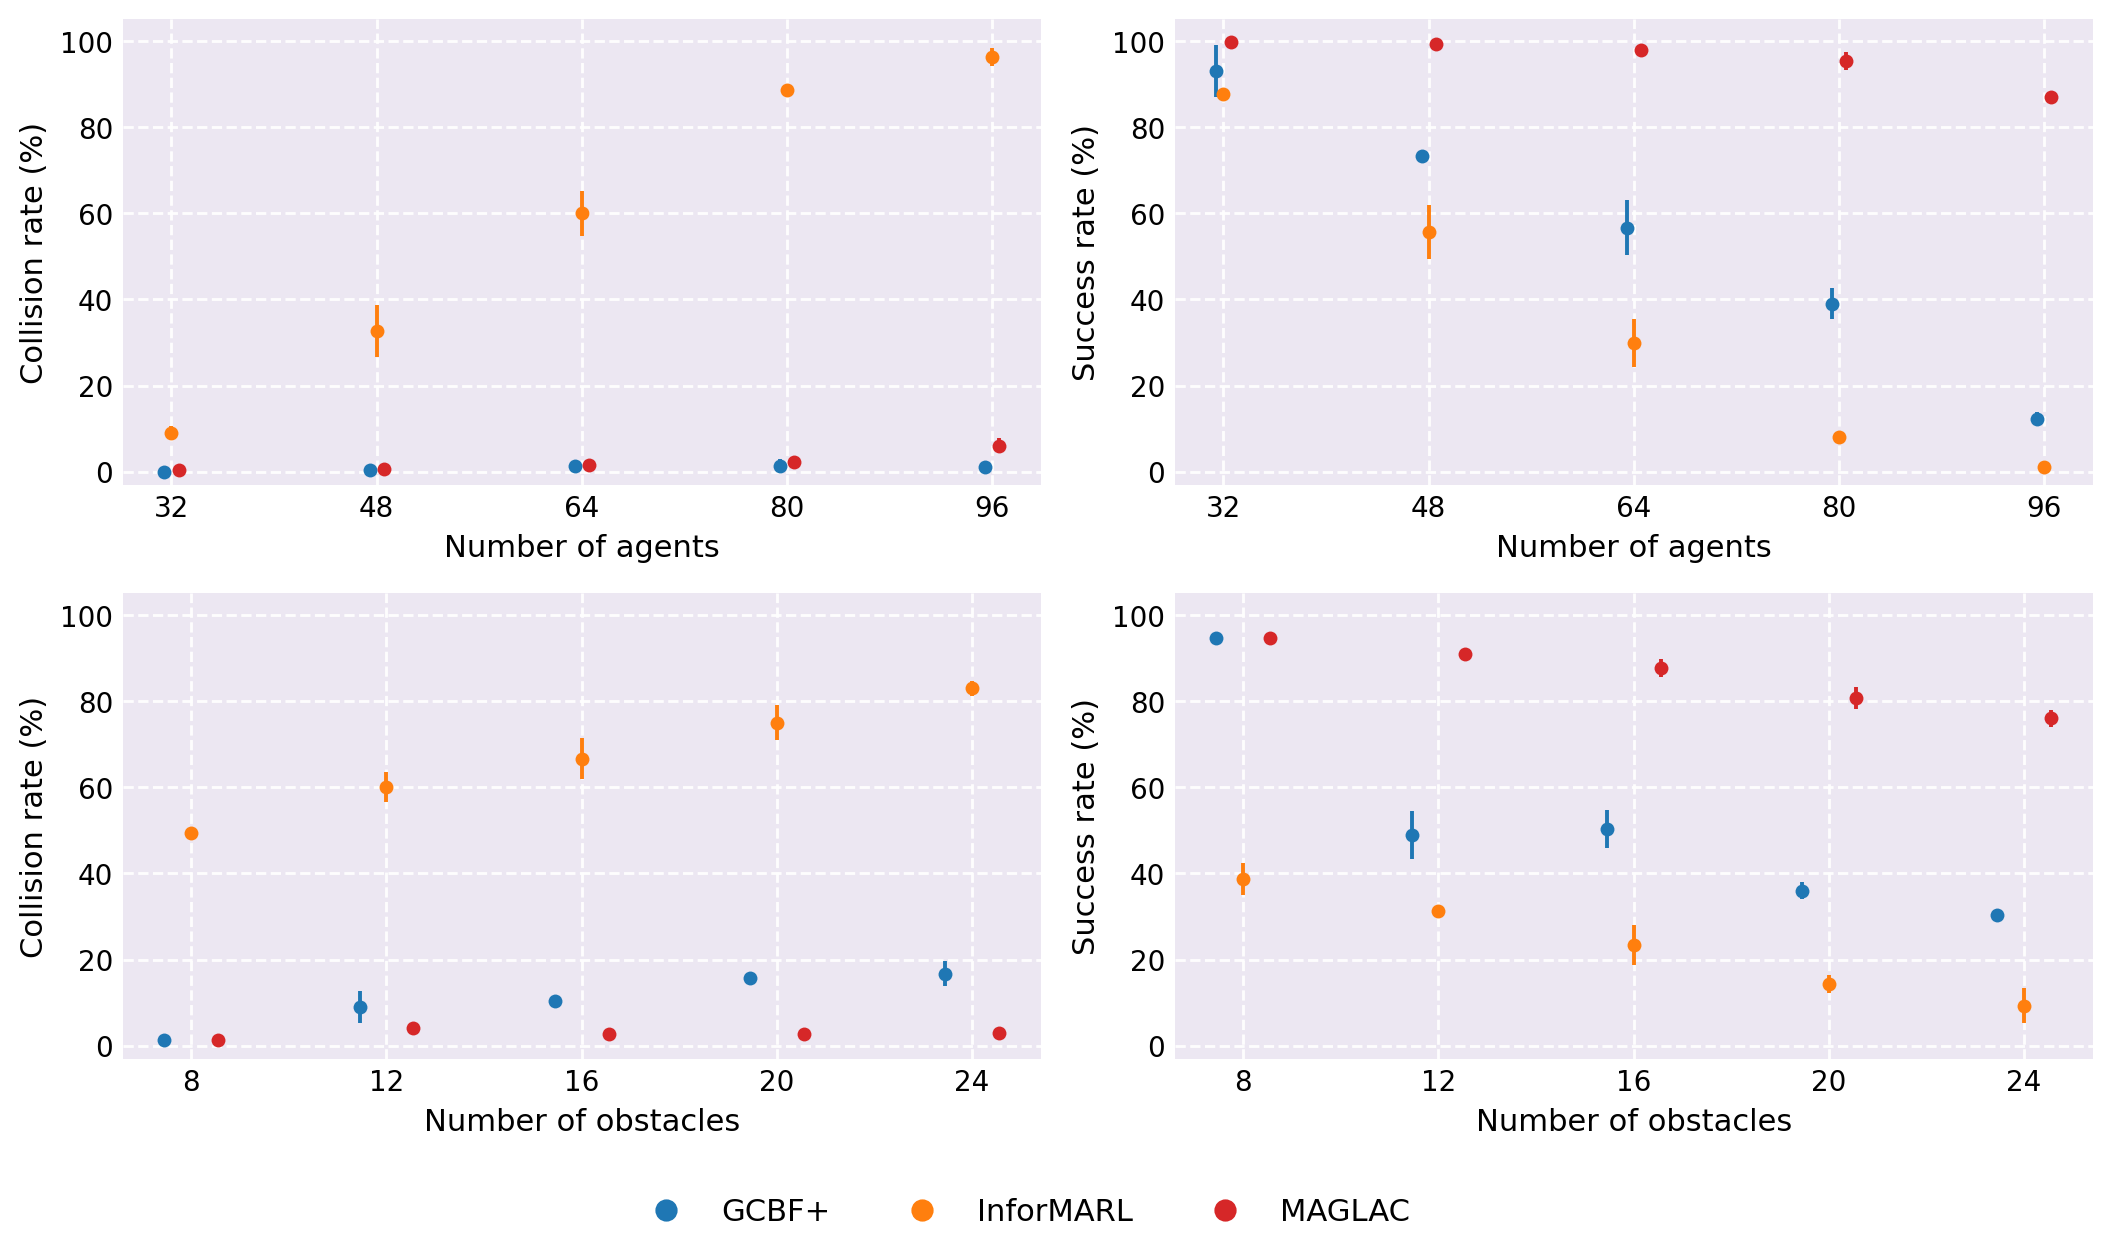
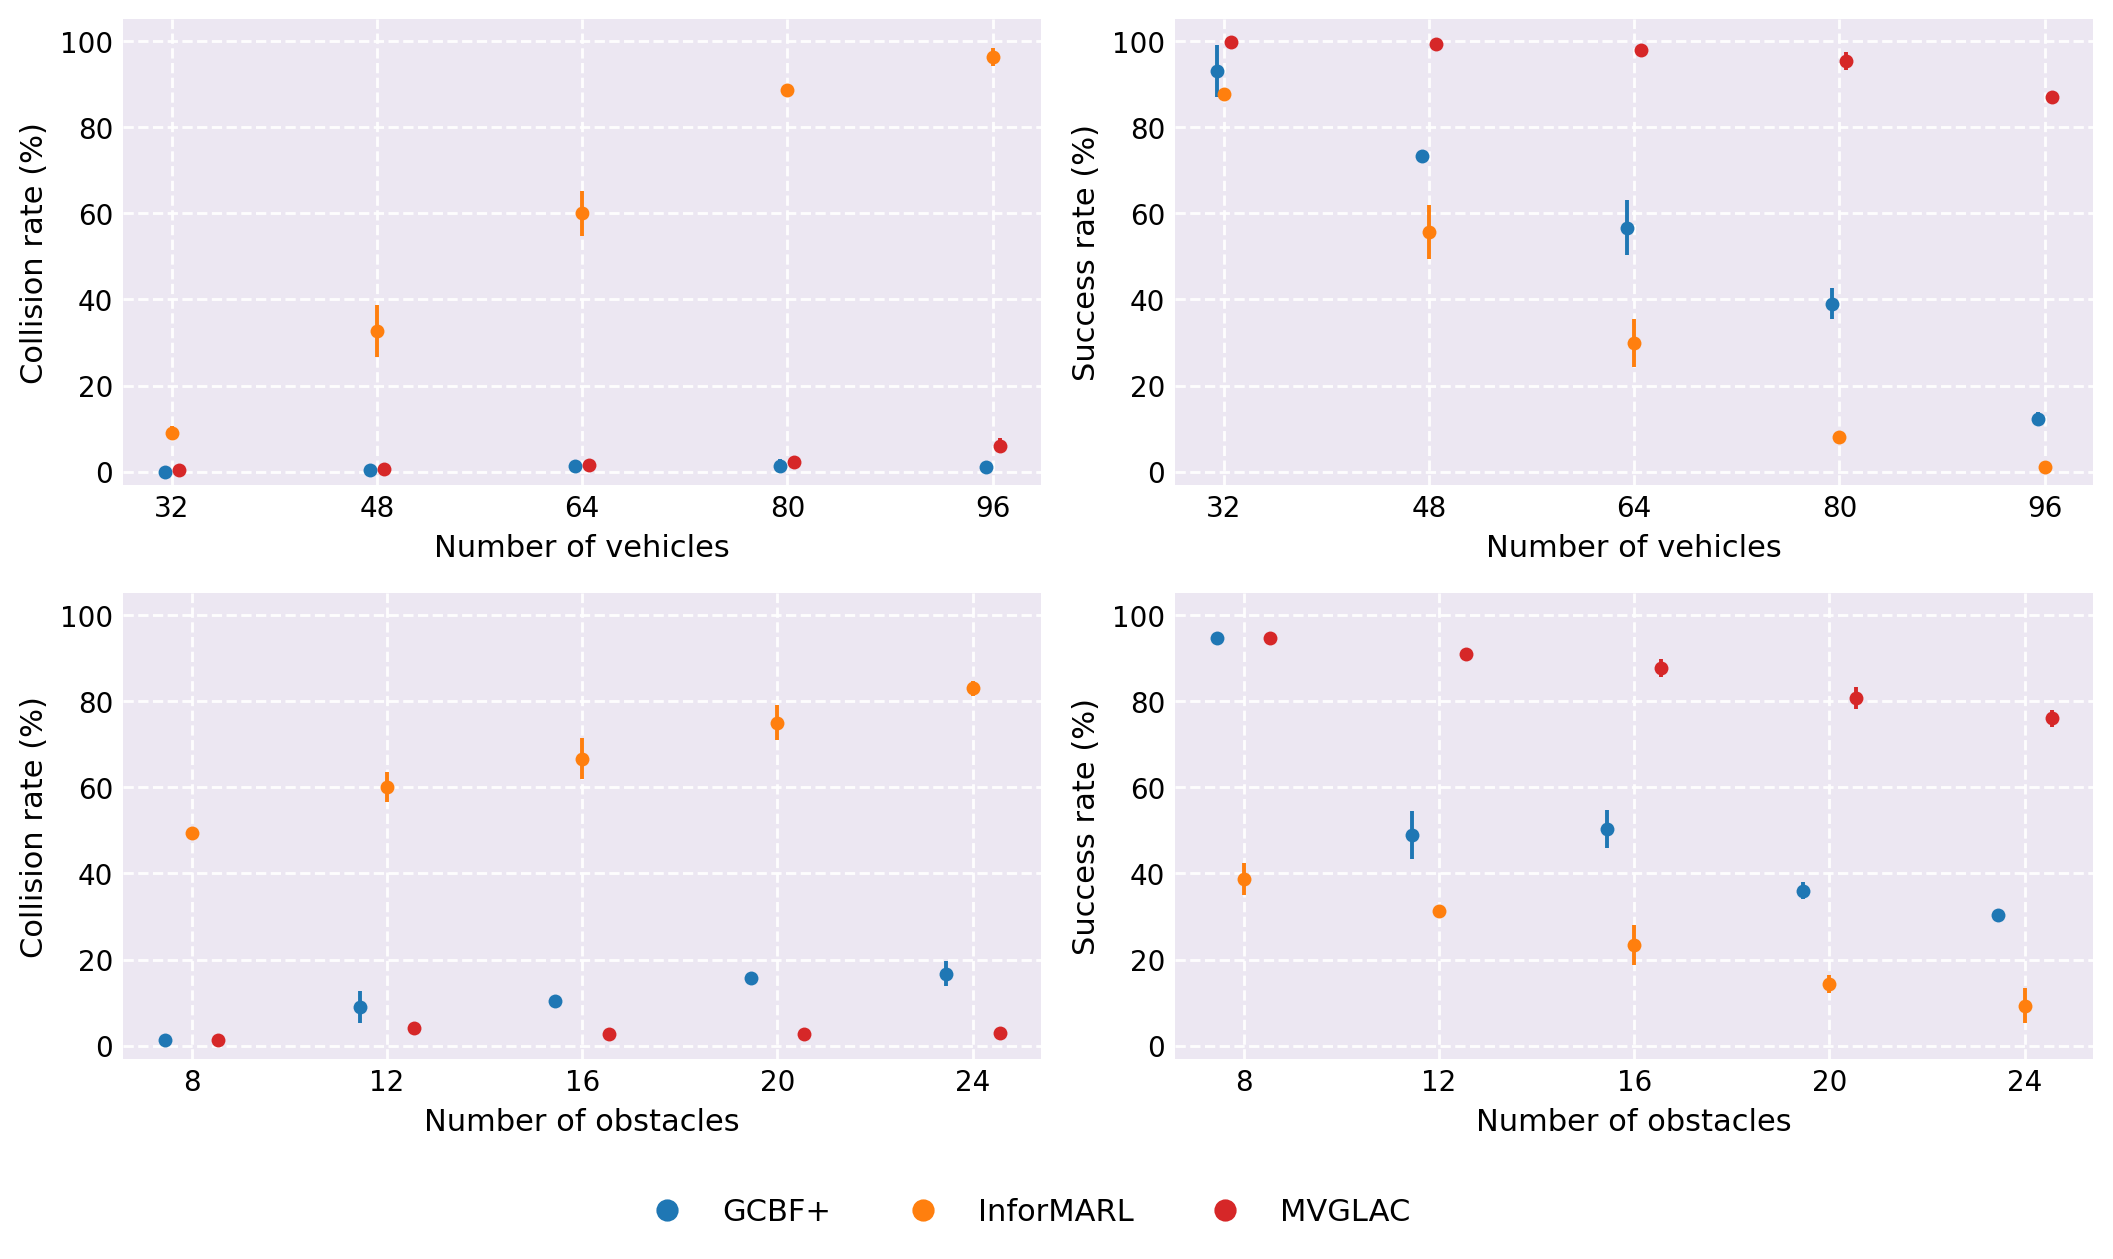
first commit

diff --git a/README.md b/README.md
@@ -1,36 +1,36 @@
-# MAGLAC: Multi-Agent Graph-Based Lyapunov Actor-Critic
+# MVGLAC: Multi-Vehicle Graph-Based Lyapunov Actor-Critic
 
 This repository contains the official implementation of
 
-**"Safe and Scalable Multi-Agent Control with Stability Guarantees via Graph-Based Lyapunov Reinforcement Learning"**
+**"Safe and Scalable Multi-Vehicle Control with Stability Guarantees via Graph-Based Lyapunov Reinforcement Learning"**
 
-MAGLAC learns a **distributed, safe, and scalable control policy** for multi-agent navigation in dense, dynamic, obstacle-cluttered environments. Each agent has only a limited sensing radius, the number of neighbors and detected obstacles changes over time, and safety is enforced as a **hard Lyapunov constraint** rather than a soft reward penalty.
+MVGLAC learns a **distributed, safe, and scalable control policy** for multi-vehicle navigation in dense, dynamic, obstacle-cluttered environments. Each vehicle has only a limited sensing radius, the number of neighbors and detected obstacles changes over time, and safety is enforced as a **hard Lyapunov constraint** rather than a soft reward penalty.
 
 <p align="center">
-  <img src="assets/overview.png" width="780" alt="MAGLAC overview"/>
+  <img src="assets/overview.png" width="780" alt="MVGLAC overview"/>
 </p>
 
-<p align="center"><i>Figure 1. Overview of MAGLAC: graph-based observation encoder, distributed actor, centralized Q / Lyapunov critics with multi-head self-attention, and adaptive Lagrangian optimization.</i></p>
+<p align="center"><i>Figure 1. Overview of MVGLAC: graph-based observation encoder, distributed actor, centralized Q / Lyapunov critics with multi-head self-attention, and adaptive Lagrangian optimization.</i></p>
 
 ---
 
 ## Repository Structure
 
 ```
-MAGLAC/
+MVGLAC/
 ├── train.py                # Training entry point
 ├── evaluate.py             # Evaluation / rollout / video rendering
 ├── requirements.txt        # Python dependencies
-├── maglac/
-│   ├── custom_envs/        # Multi-agent navigation environments + plotting
+├── MVGLAC/
+│   ├── custom_envs/        # multi-vehicle navigation environments + plotting
 │   │   ├── plot.py         # Trajectory / video / static rendering
 │   │   └── ...
 │   ├── rl_agent/
-│   │   ├── maglac.py       # MAGLACAgent, rollout & evaluation routines
+│   │   ├── MVGLAC.py       # MVGLACAgent, rollout & evaluation routines
 │   │   ├── replay_buffer.py
 │   │   └── data.py
 │   └── utils/              # JAX utilities, typing, helpers
-├── pretrain/MAGLAC/        # Pretrained checkpoints
+├── pretrain/MVGLAC/        # Pretrained checkpoints
 ├── logs/                   # (auto-created) training logs, configs, models
 └── README.md
 ```
@@ -43,12 +43,12 @@ The code is built on **JAX / Flax** with  `wandb`. A CUDA-enabled NVIDIA GPU is 
 
 ```bash
 # 1. clone
-git clone https://github.com/lazysmoon/MAGLAC.git
-cd MAGLAC
+git clone https://github.com/lazysmoon/MVGLAC.git
+cd MVGLAC
 
 # 2. (recommended) create a conda env
-conda create -n maglac python=3.10 -y
-conda activate maglac
+conda create -n MVGLAC python=3.10 -y
+conda activate MVGLAC
 
 # 3. install dependencies
 pip install -r requirements.txt
@@ -62,12 +62,12 @@ pip install -r requirements.txt
 
 ### 1. Train a policy
 
-The default configuration trains with `N = 8` agents, `O = 8` obstacles in a 4 m × 4 m workspace, 256 steps per episode:
+The default configuration trains with `N = 8` vehicles, `O = 8` obstacles in a 4 m × 4 m workspace, 256 steps per episode:
 
 ```bash
 python train.py \
     --env Second_Order \
-    --rl_algo MAGLAC \
+    --rl_algo MVGLAC \
     --num-agents 8 \
     --obs 8 \
     --area-size 4 \
@@ -86,7 +86,7 @@ Add `--debug` to disable `wandb` and JAX JIT for quick local debugging. See `tra
 
 ```bash
 python evaluate.py \
-    --model_dir ./pretrain/MAGLAC/models \
+    --model_dir ./pretrain/MVGLAC/models \
     --prefix checkpoint_ \
     --num-agents 8 \
     --obs 8 \
@@ -99,13 +99,13 @@ The script loads the checkpoint at the requested step. Omit `--checkpoint_step` 
 - `output_seed<seed>.txt` — mean return, success rate, safe rate, failed episode indices,
 - one MP4 video and one trajectory PNG per selected episode.
 
-A pretrained checkpoint is provided under `pretrain/MAGLAC/` for direct evaluation.
+A pretrained checkpoint is provided under `pretrain/MVGLAC/` for direct evaluation.
 
 ### 3. Render a single graph / trajectory
 
-`maglac/custom_envs/plot.py` exposes three rendering helpers used by `evaluate.py`:
+`MVGLAC/custom_envs/plot.py` exposes three rendering helpers used by `evaluate.py`:
 
-- `render_single_graph(graph, save_path, side_length, n_agent, n_rays, r)` — static figure of one frame (agents as circles, goals as squares, obstacles, observation edges).
+- `render_single_graph(graph, save_path, side_length, n_agent, n_rays, r)` — static figure of one frame (vehicles as circles, goals as squares, obstacles, observation edges).
 - `render_trajectory(rollout, save_path, side_length, dim, n_agent, r)` — continuous time-graded trajectory plot with a colorbar.
 - `render_video(rollout, video_path, side_length, dim, n_agent, n_rays, r)` — full MP4 animation including the Lyapunov-informative observation graph.
 
@@ -113,11 +113,11 @@ A pretrained checkpoint is provided under `pretrain/MAGLAC/` for direct evaluati
 
 ## Method Overview
 
-The multi-agent safe navigation problem is formulated as a **Constrained Markov Decision Process** (CMDP), in which each agent sees only a local observation whose dimension varies in time (the number of neighbors and detected obstacle points changes as agents move).
+The multi-vehicle safe navigation problem is formulated as a **Constrained Markov Decision Process** (CMDP), in which each vehicle sees only a local observation whose dimension varies in time (the number of neighbors and detected obstacle points changes as vehicles move).
 
-**Graph-based observation.** Each agent's local observation is turned into a directed graph with four node types — ego, neighboring agents, obstacle-ray endpoints, and goal — each tagged with a one-hot semantic feature. Edge features encode relative position and velocity to the ego-agent. A graph attention encoder aggregates this variable-dimensional graph into a fixed-length embedding, which a distributed actor maps to bounded control commands.
+**Graph-based observation.** Each vehicle's local observation is turned into a directed graph with four node types — ego, neighboring vehicles, obstacle-ray endpoints, and goal — each tagged with a one-hot semantic feature. Edge features encode relative position and velocity to the ego-vehicle. A graph attention encoder aggregates this variable-dimensional graph into a fixed-length embedding, which a distributed actor maps to bounded control commands.
 
-**Lyapunov critic and UUB stability.** A centralized Lyapunov critic is trained to approximate the cumulative discounted safety cost. A data-driven drift condition is derived that guarantees the closed-loop multi-agent system is **uniformly ultimately bounded** with respect to the global safety cost. The global condition is decoupled into per-agent local constraints, so the stability guarantee is enforced through purely local supervision.
+**Lyapunov critic and UUB stability.** A centralized Lyapunov critic is trained to approximate the cumulative discounted safety cost. A data-driven drift condition is derived that guarantees the closed-loop multi-vehicle system is **uniformly ultimately bounded** with respect to the global safety cost. The global condition is decoupled into per-vehicle local constraints, so the stability guarantee is enforced through purely local supervision.
 
 **Adaptive Lagrangian optimization.** The Lyapunov stability condition is combined with a maximum-entropy objective via Lagrangian duality. Both the Lagrangian multiplier and the entropy temperature are auto-tuned by dual ascent, removing the need for manual safety/task weight tuning.
 
@@ -130,21 +130,21 @@ The multi-agent safe navigation problem is formulated as a **Constrained Markov 
 <p align="center">
   <img src="assets/training_curves.png" width="820" alt="Training curves"/>
 </p>
-<p align="center"><i>Figure 3. Training curves of MAGLAC under three configurations (3 / 8 / 10 agents).</i></p>
+<p align="center"><i>Figure 3. Training curves of MVGLAC under three configurations (3 / 8 / 10 vehicles).</i></p>
 
-MAGLAC stabilizes near a mean reward of **140** across all three settings, and reaches this level within the first 20% of training.
+MVGLAC stabilizes near a mean reward of **140** across all three settings, and reaches this level within the first 20% of training.
 
 ### Zero-shot scaling and generalization
 
 <p align="center">
   <img src="assets/scalability.png" width="820" alt="Scalability"/>
 </p>
-<p align="center"><i>Figure 4. Zero-shot scaling. Top: collision rate (left) and success rate (right) vs. number of agents (N_obs = 0). Bottom: same metrics vs. number of obstacles (N = 48).</i></p>
+<p align="center"><i>Figure 4. Zero-shot scaling. Top: collision rate (left) and success rate (right) vs. number of vehicles (N_obs = 0). Bottom: same metrics vs. number of obstacles (N = 48).</i></p>
 
 A policy trained at `N = 8, N_obs = 8` is evaluated zero-shot on different workspaces ($L = 8$ m).
 
-- **Agent-crowding family** (`N_obs = 0`, `N ∈ {32, 48, 64, 80, 96}`): MAGLAC keeps collisions below 6% across all populations and sustains a success rate above 87% even at `N = 96`.
-- **Obstacle-density family** (`N = 48`, `N_obs ∈ {8, 12, 16, 20, 24}`): MAGLAC maintains collision rate below 4% and success rate above 76% across all obstacle densities.
+- **Vehicle-crowding family** (`N_obs = 0`, `N ∈ {32, 48, 64, 80, 96}`): MVGLAC keeps collisions below 6% across all populations and sustains a success rate above 87% even at `N = 96`.
+- **Obstacle-density family** (`N = 48`, `N_obs ∈ {8, 12, 16, 20, 24}`): MVGLAC maintains collision rate below 4% and success rate above 76% across all obstacle densities.
 
 These results indicate that the dynamic graph representation enables the policy to generalize across diverse interaction topologies, while the Lyapunov-based stability condition maintains safety under conditions outside the training distribution.
 
@@ -157,7 +157,7 @@ The learned policy is further deployed on a **ROS 2 Humble + Crazyswarm2** SITL 
 </p>
 <p align="center"><i>Figure 5. Trajectories of eight Crazyflie quadrotors across six SITL scenarios.</i></p>
 
-In every scenario, all eight quadrotors reach their assigned goals without collision, and the trajectories remain smooth even in regions where multiple agents and obstacles fall within a single sensing radius — confirming that the policy trained in numerical simulation transfers directly to the firmware-driven SITL environment.
+In every scenario, all eight quadrotors reach their assigned goals without collision, and the trajectories remain smooth even in regions where multiple vehicles and obstacles fall within a single sensing radius — confirming that the policy trained in numerical simulation transfers directly to the firmware-driven SITL environment.
 
 ---
 